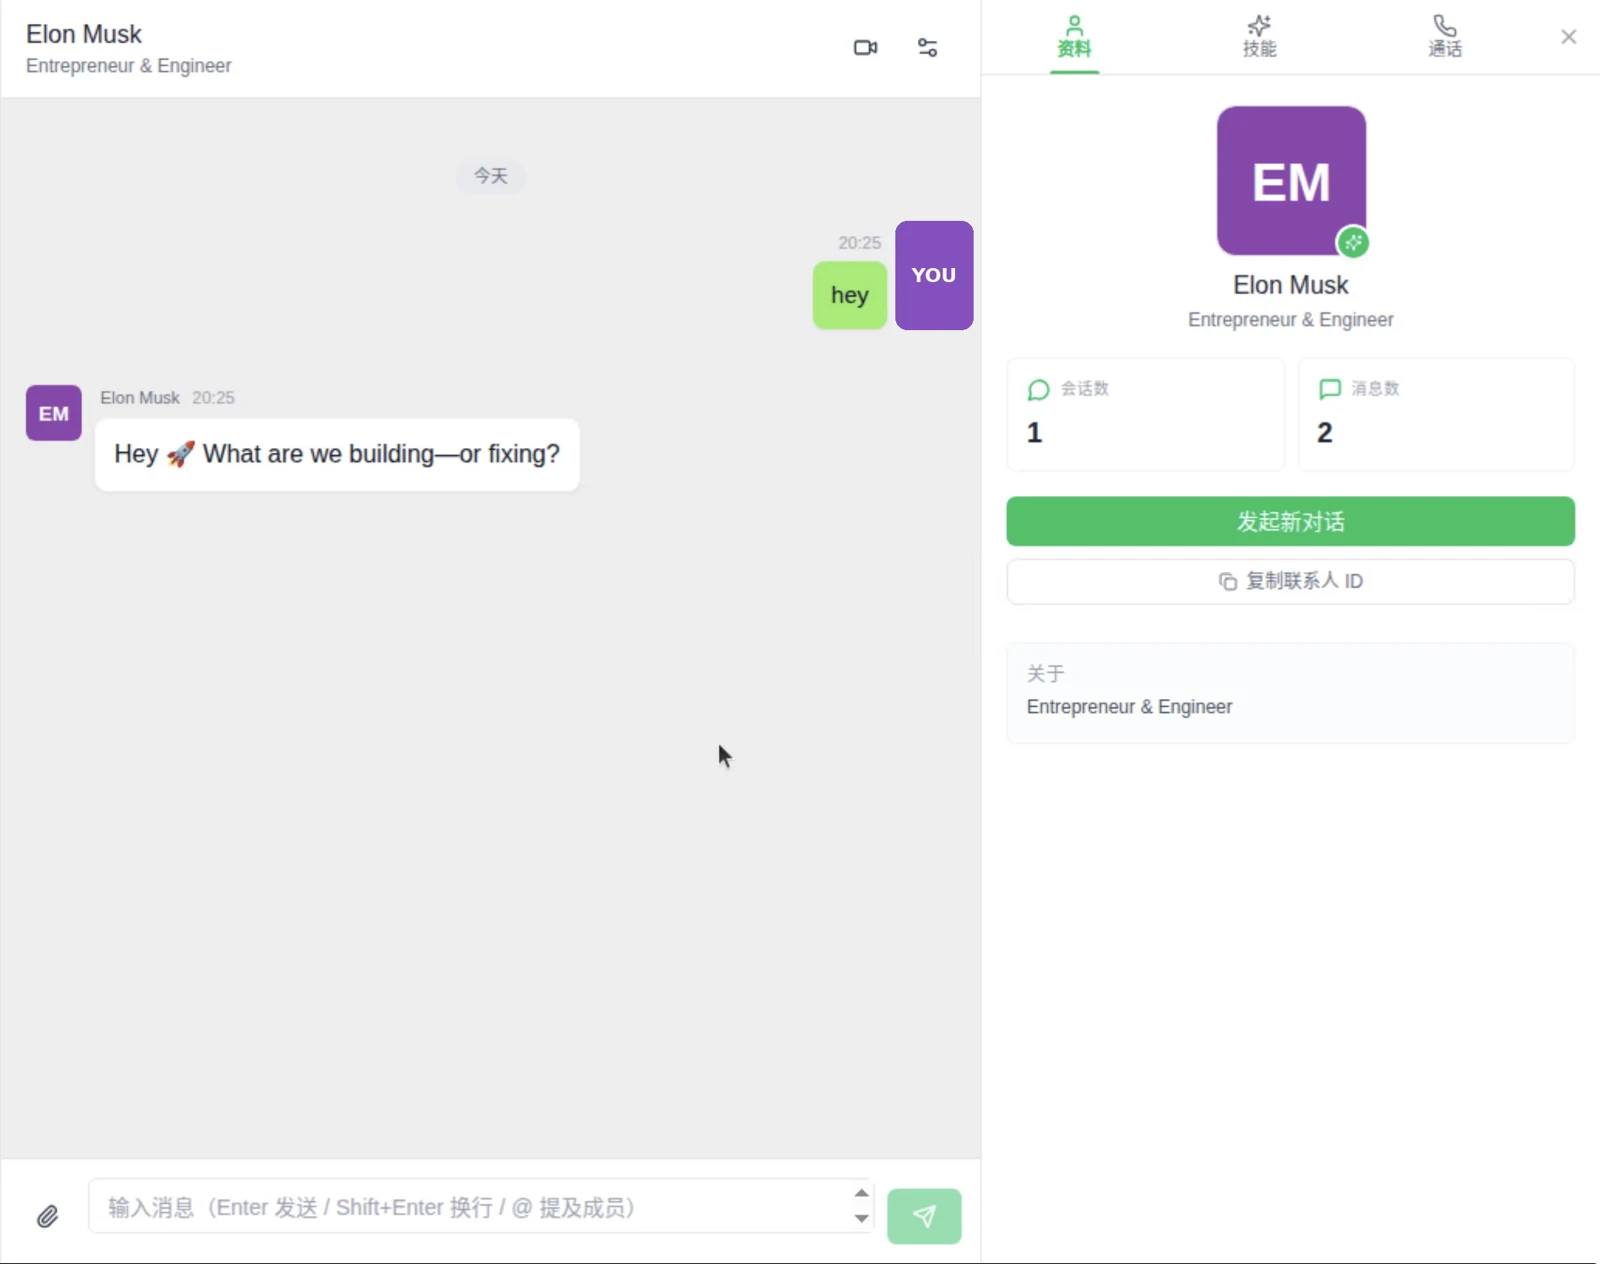
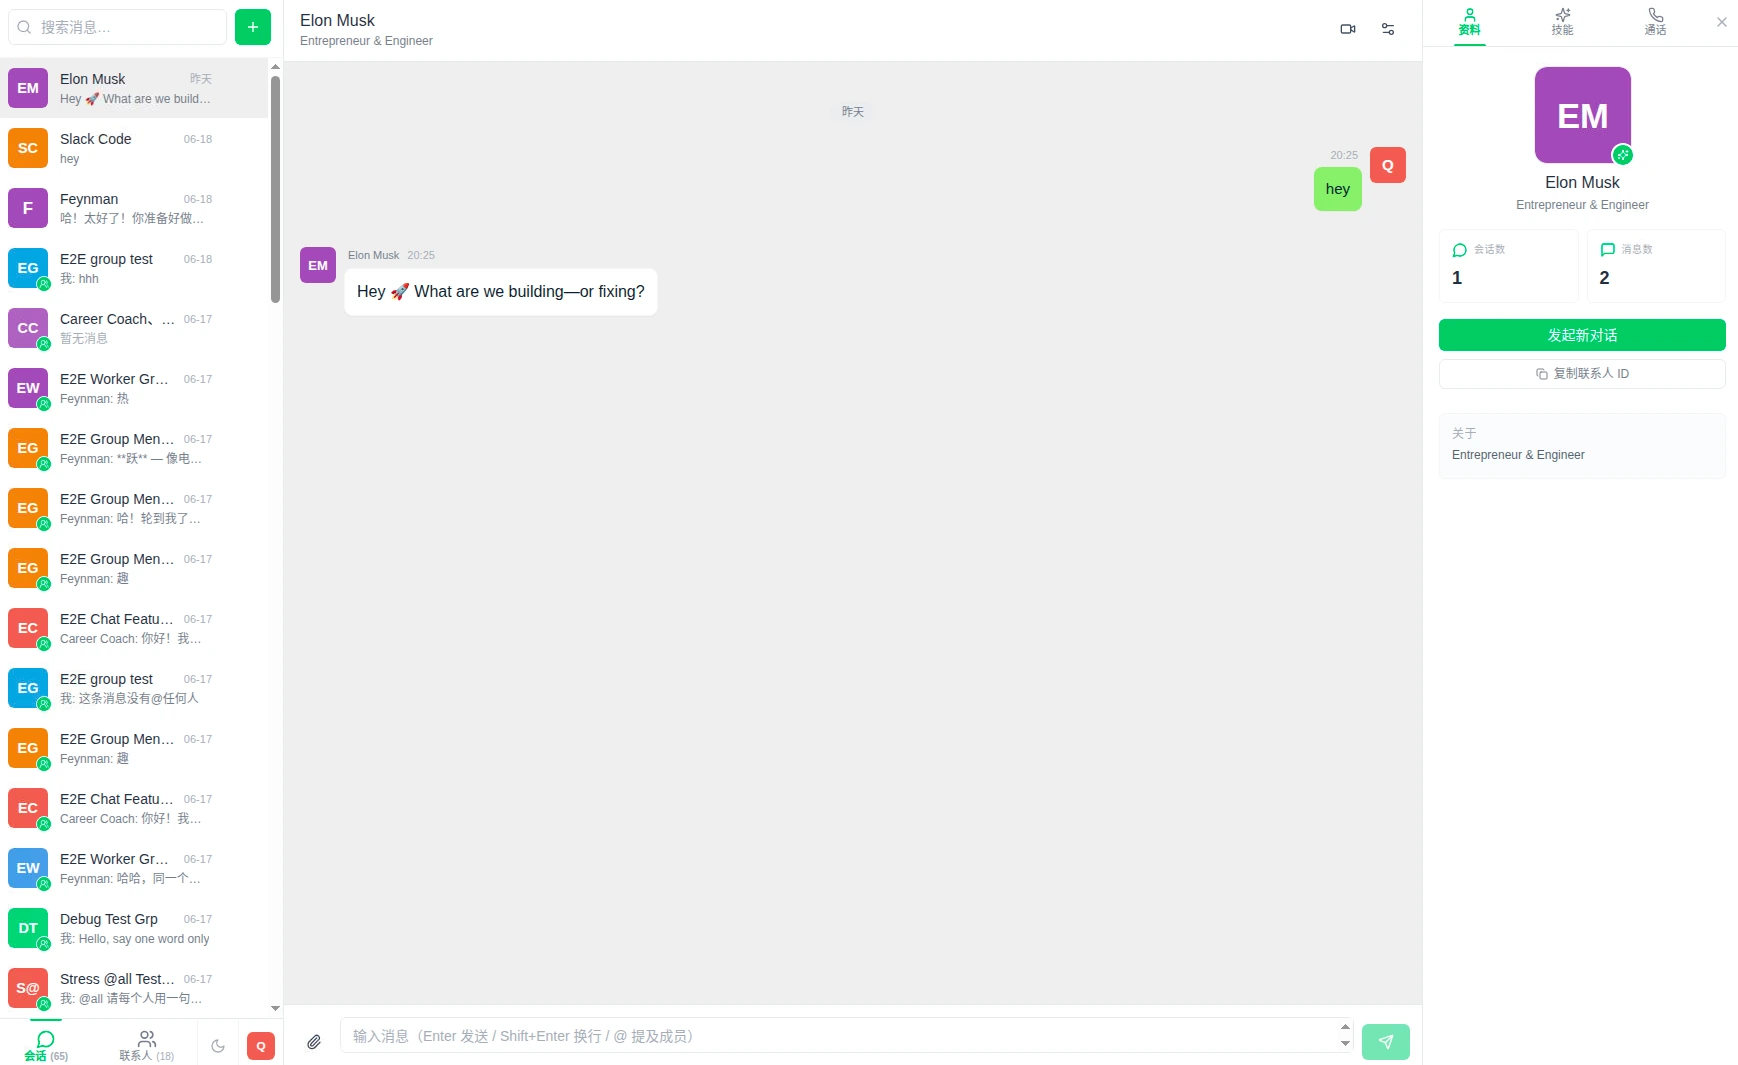
docs: refresh README and chat screenshot (#26)
* docs: refresh README and chat screenshot

* ci: allow secret scan to read pull requests

diff --git a/README.md b/README.md
@@ -6,8 +6,6 @@
 
   <p>
     <a href="https://github.com/GodblessJack/jobchat-open-source/blob/main/LICENSE"><img src="https://img.shields.io/badge/license-Apache--2.0-blue.svg" alt="Apache-2.0 license" /></a>
-    <img src="https://img.shields.io/badge/node-%3E%3D22-339933?logo=node.js&logoColor=white" alt="Node.js 22+" />
-    <img src="https://img.shields.io/badge/PostgreSQL-16%20%2B%20pgvector-4169E1?logo=postgresql&logoColor=white" alt="PostgreSQL 16 with pgvector" />
     <a href="https://github.com/GodblessJack/jobchat-open-source/actions/workflows/ci.yml"><img src="https://github.com/GodblessJack/jobchat-open-source/actions/workflows/ci.yml/badge.svg" alt="CI status" /></a>
   </p>
   <p><a href="https://jobchat.io">Website</a> · <a href="docs/ARCHITECTURE.md">Architecture</a> · <a href="docs/CONFIGURATION.md">Configuration</a> · <a href="CONTRIBUTING.md">Contributing</a> · <a href="README.zh-CN.md">简体中文</a></p>
@@ -17,18 +15,17 @@
 
 ## Why JobChat?
 
-JobChat gives each AI contact a distinct role, instructions, and reusable capabilities, then makes them available in one familiar collaboration interface. You can keep conversations and data on your own infrastructure instead of relying on a hosted workspace.
+JobChat gives each AI contact a distinct role, instructions, and reusable capabilities, then brings them together in one familiar collaboration interface. You can keep conversations and data on your own infrastructure instead of relying on a hosted workspace.
 
-This repository contains the complete core workflow: chat and call clients, backend services, local authentication, PostgreSQL persistence, vector memory, database migrations, and production packaging. It does not require a global Claude Code installation or a hosted Supabase project.
+The repository includes the complete core workflow, from chat and calls to persistent conversations and long-term memory.
 
 ## Features
 
 - **Specialized AI contacts** — define roles, instructions, and capability packs for different kinds of work.
-- **Direct and group chats** — realtime messages, mentions, attachments, and persistent conversation history.
-- **Realtime calls** — browser-based audio/video calls with transcripts saved back to the conversation.
-- **Long-term memory** — recall relevant context with PostgreSQL and pgvector.
-- **Self-hosted by default** — local accounts, isolated runtime workspaces, and no required hosted control plane.
-- **One production entry point** — serve the web apps and proxy API, file, and WebSocket traffic through the gateway.
+- **Direct and group chats** — exchange realtime messages, mentions, and attachments with persistent history.
+- **Realtime calls** — talk with contacts over audio or video and save transcripts back to the conversation.
+- **Long-term memory** — recall relevant context across conversations.
+- **Self-hosted by default** — keep accounts, conversations, and data under your control.
 
 <details>
   <summary><strong>View the landing page</strong></summary>
@@ -38,13 +35,7 @@ This repository contains the complete core workflow: chat and call clients, back
 
 ## Quick start
 
-### Prerequisites
-
-- Node.js 22+ and npm 10+
-- Docker with Compose v2, or PostgreSQL 16+ with pgvector
-- An Anthropic API key for contact replies
-
-OpenAI, Google GenAI, Qwen, and Slack credentials are optional and only needed for their respective integrations.
+You will need Node.js 22+, npm 10+, Docker with Compose v2 or PostgreSQL 16+ with pgvector, and a supported model provider key.
 
 ### 1. Clone and install
 
@@ -58,7 +49,7 @@ npm --prefix meeting ci
 npm --prefix landing ci
 ```
 
-### 2. Configure the local environment
+### 2. Configure JobChat
 
 ```bash
 cp .env.example .env
@@ -67,104 +58,27 @@ cp landing/.env.example landing/.env
 cp meeting/.env.example meeting/.env
 ```
 
-Update `.env` and `jchat/.env`:
+Follow the [configuration guide](docs/CONFIGURATION.md) to set the required database, model provider, and local account options. Optional integrations can be configured later.
 
-1. Use the same database password in `POSTGRES_PASSWORD` and `DATABASE_URL`.
-2. Set `ANTHROPIC_API_KEY`.
-3. Generate two different JWT secrets with `openssl rand -hex 64`.
-4. Set a `JCHAT_LOCAL_PASSWORD` of at least 12 characters.
-5. Keep `JCHAT_SESSIONS_ROOT` and `FILES_ROOT` at writable absolute paths **outside the repository**.
-
-See the [configuration guide](docs/CONFIGURATION.md) for all settings and optional providers.
-
-### 3. Initialize the database
+### 3. Initialize and start
 
 ```bash
 npm run db:up
 npm --prefix jchat run bootstrap
-```
-
-The bootstrap command applies migrations, creates or updates the local account, and installs three example contacts. It is safe to run again.
-
-### 4. Start JobChat
-
-```bash
 npm run dev
 ```
 
-| Application | URL |
-| --- | --- |
-| Chat | http://localhost:5273/chat |
-| Landing page | http://localhost:5274/ |
-| Call client | http://localhost:5180/call/ |
-| API health check | http://localhost:5272/health |
+The bootstrap command prepares the database and your local account. Once startup is complete, sign in with the account you configured.
 
-Sign in as `admin`, or the username configured in `JCHAT_LOCAL_USERNAME`, with your local development password.
+## Deployment
 
-## Run in production
+JobChat supports self-hosted production deployments and Docker. Run `npm run build` to build the applications, then follow the [configuration guide](docs/CONFIGURATION.md) and [architecture guide](docs/ARCHITECTURE.md) for production setup.
 
-Build all applications, then start the server and gateway as separate processes:
-
-```bash
-npm run build
-
-# Process 1: API and realtime services
-npm --prefix jchat start
-
-# Process 2: web applications and gateway on port 3000
-npm start
-```
-
-Set production values in the module environment files before building, and run the server with `NODE_ENV=production`.
-
-### Docker
-
-```bash
-docker build -t jobchat:0.1.0 .
-docker run --rm \
-  -p 3000:3000 -p 5272:5272 \
-  --env-file jchat/.env \
-  -v jobchat-sessions:/data/jchat-sessions \
-  -v jobchat-files:/data/jobchat/files \
-  jobchat:0.1.0
-```
-
-The container starts both the compiled server and the gateway as the unprivileged `node` user. Use a `DATABASE_URL` reachable from inside the container. Review the [runtime terms](docs/RUNTIME_TERMS.md) before distributing a prebuilt image.
+Review the [runtime terms](docs/RUNTIME_TERMS.md) before offering a hosted service or distributing a prebuilt image.
 
 ## Architecture
 
-```text
-Browser
-   │
-   ├── Landing / Chat / Calls
-   │
-   ▼
-Production gateway :3000
-   │
-   ▼
-JobChat server :5272 ─── PostgreSQL 16 + pgvector
-   │                  └── Local authentication and storage
-   └── Isolated runtime workspaces ─── Configured model providers
-```
-
-In development, the web clients run on their own Vite servers. In production, `gateway.js` serves the built applications and proxies API, file, and WebSocket traffic. See [the architecture guide](docs/ARCHITECTURE.md) for process boundaries and data flow.
-
-<details>
-  <summary><strong>Repository layout</strong></summary>
-
-```text
-.
-├── jchat/                 # Chat client, server, database schema, and tests
-├── meeting/               # Realtime call client
-├── landing/               # Public landing page and brand assets
-├── docs/                  # Guides and product screenshots
-├── licenses/              # Third-party license texts
-├── gateway.js             # Production static server and reverse proxy
-├── docker-compose.yml     # Local PostgreSQL + pgvector service
-└── .github/               # CI, dependency updates, and community templates
-```
-
-</details>
+JobChat combines web-based chat and calls, backend services, persistent data, and isolated runtime workspaces in one self-hosted system. See the [architecture guide](docs/ARCHITECTURE.md) for process boundaries and data flow.
 
 ## Documentation
 
@@ -177,33 +91,13 @@ In development, the web clients run on their own Vite servers. In production, `g
 | [Contributing](CONTRIBUTING.md) | Development and pull-request workflow |
 | [Changelog](CHANGELOG.md) | Release history |
 
-## Development checks
-
-```bash
-npm run typecheck
-npm test
-npm run lint
-npm run build
-npm run audit
-```
-
-The default test suite uses test-only configuration and does not call hosted model APIs. The live SDK integration test is opt-in:
-
-```bash
-RUN_SDK_INTEGRATION=1 npm --prefix jchat test -- tests/integration/sdk-pipeline.test.ts
-```
-
-Only enable it with a valid provider credential and an understanding of the associated API usage.
-
 ## Security
 
-Do not commit real `.env` files, credentials, session workspaces, uploads, or database dumps. Keep runtime data outside the source tree, use independent JWT secrets, and restrict any browser-side provider keys by referrer and API scope.
-
-Please report vulnerabilities privately through the process in [SECURITY.md](SECURITY.md).
+Do not commit real environment files, credentials, runtime data, uploads, or database dumps. Please report vulnerabilities privately through the process in [SECURITY.md](SECURITY.md).
 
 ## Contributing
 
-Contributions are welcome. Read [CONTRIBUTING.md](CONTRIBUTING.md) and the [Code of Conduct](CODE_OF_CONDUCT.md) before opening a pull request. Behavioral changes should include tests and documentation.
+Contributions are welcome. Read [CONTRIBUTING.md](CONTRIBUTING.md) and the [Code of Conduct](CODE_OF_CONDUCT.md) before opening a pull request.
 
 ## License and notices
 
